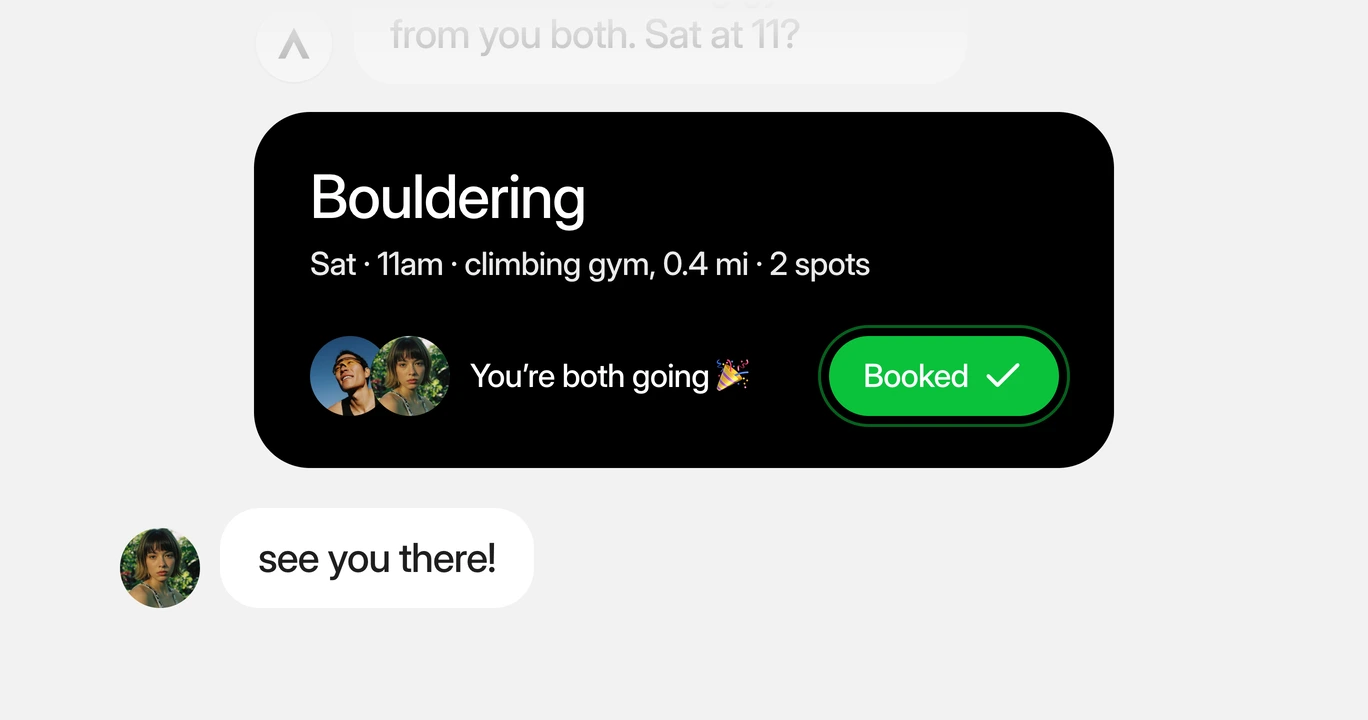
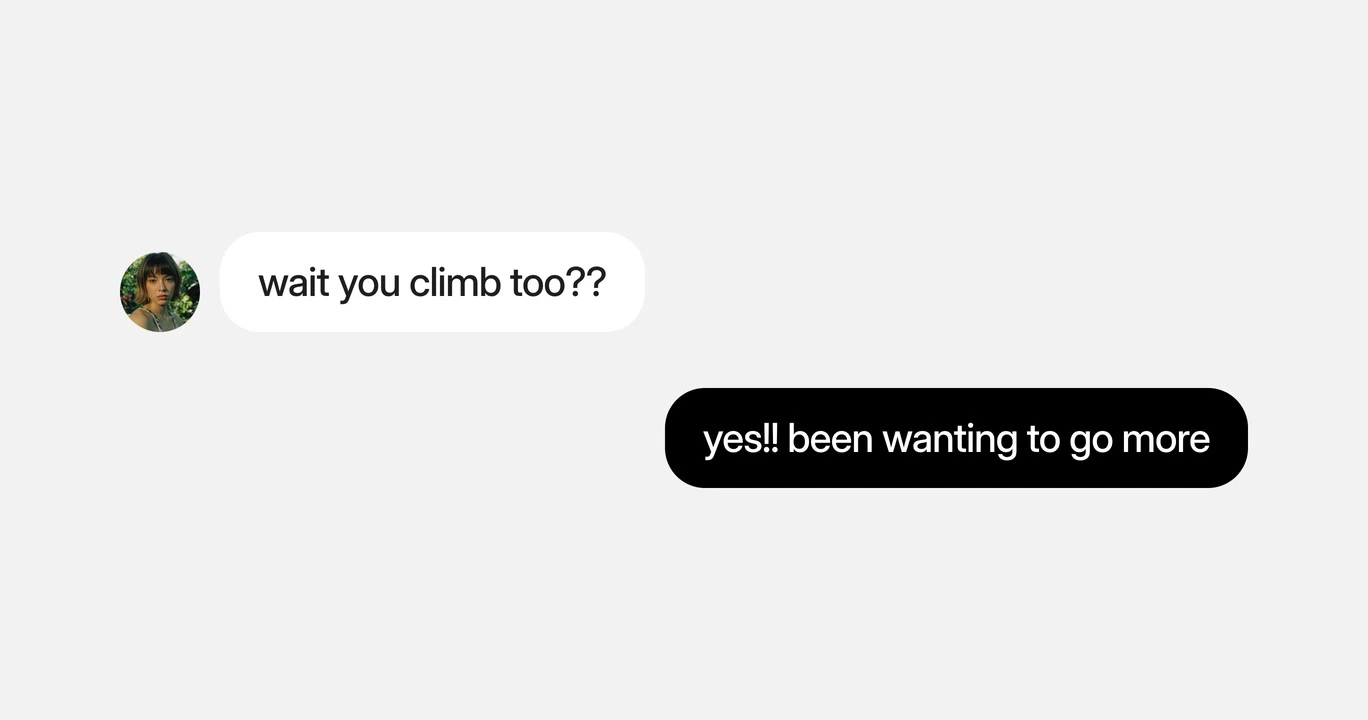
Autoplay case-study tiles in view and rest Anuma on the chat.
So the shareable preview matches the in-view playback and the quieter two-bubble poster.

diff --git a/components/GridCardVideo.tsx b/components/GridCardVideo.tsx
@@ -7,81 +7,95 @@ type GridCardVideoProps = {
   srcWebm?: string;
   poster: string;
   label: string;
+  startOffset?: number;
 };
 
-const hoverQuery = '(hover: hover) and (pointer: fine)';
 const reducedQuery = '(prefers-reduced-motion: reduce)';
 
-export default function GridCardVideo({ src, srcWebm, poster, label }: GridCardVideoProps) {
+export default function GridCardVideo({
+  src,
+  srcWebm,
+  poster,
+  label,
+  startOffset = 0,
+}: GridCardVideoProps) {
+  const wrapRef = useRef<HTMLDivElement>(null);
   const videoRef = useRef<HTMLVideoElement>(null);
-  const [playing, setPlaying] = useState(false);
-
-  const pauseToPoster = () => {
-    const video = videoRef.current;
-    if (!video) return;
-    video.pause();
-    video.currentTime = 0;
-    setPlaying(false);
-  };
-
-  const playVideo = () => {
-    const video = videoRef.current;
-    if (!video) return;
-    void video.play().then(() => setPlaying(true)).catch(() => setPlaying(false));
-  };
+  const startedRef = useRef(false);
+  const [revealed, setRevealed] = useState(false);
 
   useEffect(() => {
+    const wrap = wrapRef.current;
     const video = videoRef.current;
-    if (!video) return;
+    if (!wrap || !video) return;
 
     const reduced = window.matchMedia(reducedQuery);
-    const hover = window.matchMedia(hoverQuery);
     let observer: IntersectionObserver | undefined;
+
+    const waitForMetadata = () =>
+      video.readyState >= 1
+        ? Promise.resolve()
+        : new Promise<void>((resolve) => {
+            video.addEventListener('loadedmetadata', () => resolve(), { once: true });
+          });
+
+    const playVideo = async () => {
+      if (reduced.matches) return;
+      if (!startedRef.current && startOffset > 0) {
+        await waitForMetadata();
+        if (!startedRef.current) video.currentTime = startOffset;
+      }
+      try {
+        await video.play();
+        startedRef.current = true;
+      } catch {
+        /* keep poster until playing fires */
+      }
+    };
+
+    const pauseVideo = () => {
+      video.pause();
+    };
 
     const setup = () => {
       observer?.disconnect();
       observer = undefined;
-      pauseToPoster();
-      if (reduced.matches || hover.matches) return;
+      pauseVideo();
+      if (reduced.matches) {
+        setRevealed(false);
+        return;
+      }
 
       observer = new IntersectionObserver(
         ([entry]) => {
           if (reduced.matches) {
-            pauseToPoster();
+            pauseVideo();
+            setRevealed(false);
             return;
           }
-          if (entry.isIntersecting) playVideo();
-          else pauseToPoster();
+          if (entry.isIntersecting) void playVideo();
+          else pauseVideo();
         },
         { threshold: 0.5 },
       );
-      observer.observe(video);
+      observer.observe(wrap);
     };
 
+    const onPlaying = () => setRevealed(true);
+
+    video.addEventListener('playing', onPlaying);
     setup();
     reduced.addEventListener('change', setup);
-    hover.addEventListener('change', setup);
     return () => {
       observer?.disconnect();
       reduced.removeEventListener('change', setup);
-      hover.removeEventListener('change', setup);
-      pauseToPoster();
+      video.removeEventListener('playing', onPlaying);
+      pauseVideo();
     };
-  }, []);
-
-  const onMouseEnter = () => {
-    if (window.matchMedia(reducedQuery).matches) return;
-    if (!window.matchMedia(hoverQuery).matches) return;
-    playVideo();
-  };
-
-  const onMouseLeave = () => {
-    if (!window.matchMedia(hoverQuery).matches) return;
-    pauseToPoster();
-  };
+  }, [startOffset]);
 
   return (
-    <div className="relative h-full w-full" onMouseEnter={onMouseEnter} onMouseLeave={onMouseLeave}>
+    <div ref={wrapRef} className="relative h-full w-full">
       {/* eslint-disable-next-line @next/next/no-img-element -- static poster under the video */}
       <img src={poster} alt="" className="absolute inset-0 h-full w-full object-cover" />
       <video
@@ -92,7 +106,9 @@ export default function GridCardVideo({ src, srcWebm, poster, label }: GridCardV
         playsInline
         preload="metadata"
         aria-label={label}
-        className={`relative h-full w-full object-cover ${playing ? 'opacity-100' : 'opacity-0'}`}
+        className={`relative h-full w-full object-cover transition-opacity duration-500 ${
+          revealed ? 'opacity-100' : 'opacity-0'
+        }`}
       >
         {srcWebm ? <source src={srcWebm} type="video/webm" /> : null}
         <source src={src} type="video/mp4" />

diff --git a/components/GridCard.tsx b/components/GridCard.tsx
@@ -7,6 +7,7 @@ export type GridCardData = {
   video?: string;
   videoWebm?: string;
   poster?: string;
+  startOffset?: number;
 };
 
 type GridCardProps = GridCardData & {
@@ -21,6 +22,7 @@ export default function GridCard({
   video,
   videoWebm,
   poster,
+  startOffset,
   height = 'h-u19',
   caption = 'split',
 }: GridCardProps) {
@@ -28,7 +30,13 @@ export default function GridCard({
     <article className={placement}>
       <div className={`${height} overflow-hidden bg-[#E2E2E2]`}>
         {video && poster ? (
-          <GridCardVideo src={video} srcWebm={videoWebm} poster={poster} label={`${title} preview`} />
+          <GridCardVideo
+            src={video}
+            srcWebm={videoWebm}
+            poster={poster}
+            label={`${title} preview`}
+            startOffset={startOffset}
+          />
         ) : (
           <div className="h-full w-full" role="img" aria-label={`${title} preview`} />
         )}

diff --git a/app/grid/simple/page.tsx b/app/grid/simple/page.tsx
@@ -15,7 +15,7 @@ const CARDS: readonly GridCardData[] = [
     placement: 'col-span-6 col-start-7',
     video: '/projects/anuma.mp4',
     videoWebm: '/projects/anuma.webm',
-    poster: '/projects/anuma.webp',
+    poster: '/projects/anuma.webp?v=2',
   },
 ];
 
